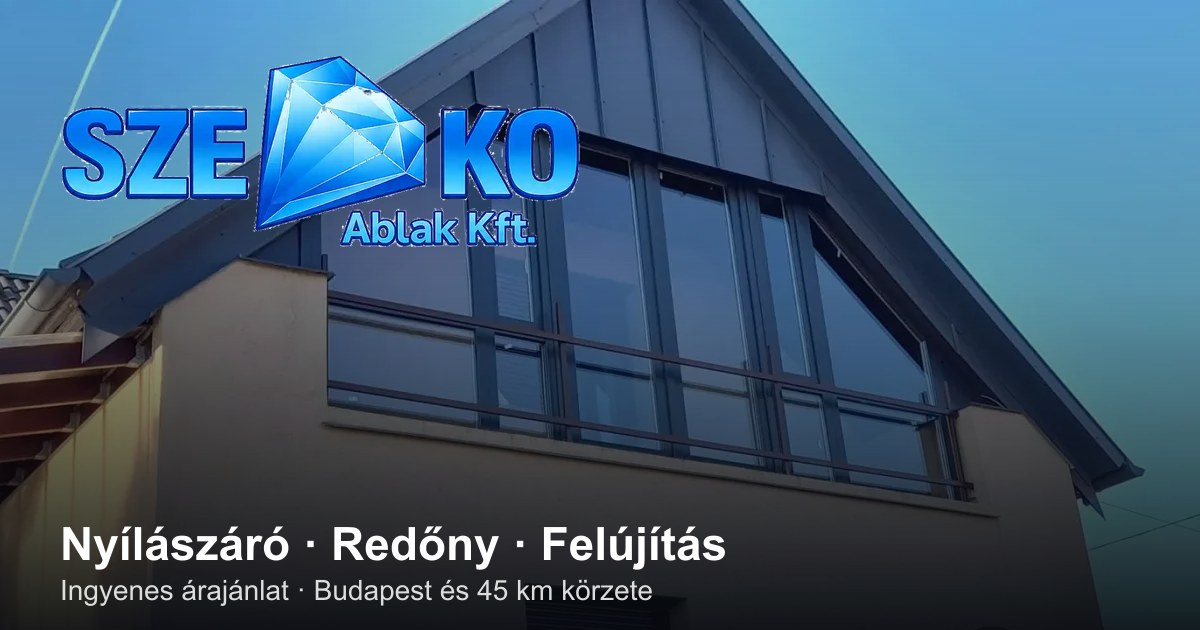
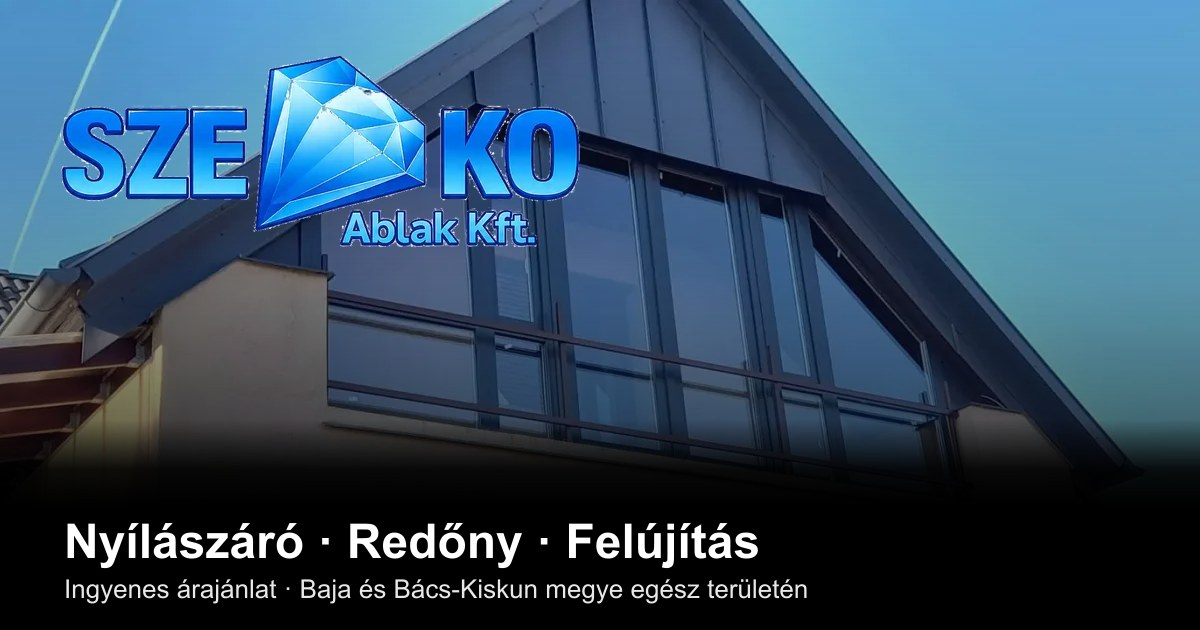
OG-kép szövegjavítás és Google Cégprofil bekötése
- public/og-image.jpg: a sablonból örökölt "Budapest és 45 km körzete"
  felirat cseréje "Baja és Bács-Kiskun megye egész területén"-re
- scripts/og-image.mjs: a szövegsáv újrarajzolására szolgáló generátor
- app/layout.tsx: a Google Cégprofil URL-je felvéve a LocalBusiness
  strukturált adat sameAs mezőjébe

Claude-Session: https://claude.ai/code/session_019ueSwfMqpGpEEWyjD1B5R6

Changed region(s): [[0.0, 0.6635, 1.0, 1.0]]

diff --git a/app/layout.tsx b/app/layout.tsx
@@ -64,7 +64,10 @@ const localBusinessSchema = {
   telephone: ["+36202191858", "+36202194514"],
   email: "szeko2010@gmail.com",
   priceRange: "$$",
-  sameAs: ["https://www.facebook.com/szekoablak/"],
+  sameAs: [
+    "https://www.facebook.com/szekoablak/",
+    "https://maps.google.com/?cid=13320074204453036370",
+  ],
   foundingDate: "2010",
   address: {
     "@type": "PostalAddress",
